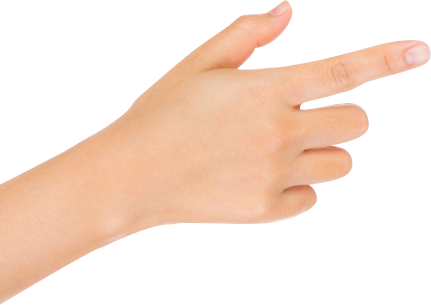
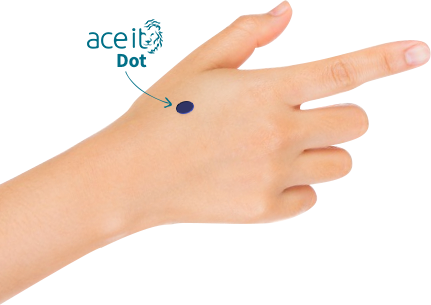
Hand and mp3 player

diff --git a/client/app/components/goaceit/components/goaceitHeader.scss b/client/app/components/goaceit/components/goaceitHeader.scss
@@ -55,7 +55,7 @@
     }
     .drawer-button-wrapper {
         @mixin drawer-icon($icon-file-name, $direction:left) {
-                cursor:pointer;
+            cursor:pointer;
             background-image: url($cdnImage + $icon-file-name);
             background-repeat: no-repeat;
             background-size: contain;
@@ -241,6 +241,39 @@
                     transform: rotateZ(-1deg);
                     z-index: 20;
 
+                    .hand {
+                        position: absolute;
+                        top: 10px;
+                        left: -12px;
+                        width: 250px;
+                        height: 177px;
+                        background: url($cdnImage + 'hand.png') center center;
+                        background-size: 250px 177px;
+
+                    }
+
+                    p {
+                        span:nth-child(1) {
+                            margin-left: 200px;
+                        }
+
+                        span:nth-child(2) {
+                            margin-left: 185px;
+                        }
+
+                        span:nth-child(3) {
+                            margin-left: 180px;
+                        }
+
+                        span:nth-child(4) {
+                            margin-left: 160px;
+                        }
+
+                        span:nth-child(5) {
+                            margin-left: 100px;
+                        }
+                    }
+
                     .stress-meter {
                         width: 530px;
                         height: 44px;
@@ -305,6 +338,11 @@
                                 }
                             }
 
+                            p {
+                                width: 350px;
+                                display: inline-block;
+                            }
+
                             .icon {
                                 width: 200px;
                                 height: 180px;
@@ -315,6 +353,47 @@
                                     margin-top: 25px;
                                     vertical-align: bottom;
                                     margin-left: -20px;
+                                }
+
+                                #play-audio {
+                                    width: 80px;
+                                    height: 80px;
+                                    background-color: #70c6d8;
+                                    -webkit-border-radius: 50%;
+                                    -moz-border-radius: 50%;
+                                    border-radius: 50%;
+                                    margin: 30px auto 0 auto;
+                                    cursor: pointer;
+                                    display: flex;
+                                    position: relative;
+
+                                    .controller {
+                                        width: 30px;
+                                        height: 30px;
+                                        display: block;
+                                        margin: 22px auto;
+                                        &.play {
+                                            background-image: url($cdnImage + 'ic-player-play.png');
+                                        }
+                                        &.pause {
+                                            background-image: url($cdnImage + 'ic-player-pause.png');
+                                        }
+                                    }
+
+                                    &:after {
+                                        content: ' ';
+                                        left: -50px;
+                                        bottom: -20px;
+                                        background-image: url($cdnImage + 'arrow-protips.svg');
+                                        background-size: contain;
+                                        background-repeat: no-repeat;
+                                        height: 30px;
+                                        width: 44px;
+                                        position: absolute;
+                                        -ms-transform: rotateZ(-45deg); /* IE 9 */
+                                        -webkit-transform: rotateZ(-45deg); /* Chrome, Safari, Opera */
+                                        transform: rotateZ(-45deg);
+                                    }
                                 }
 
                             }

diff --git a/client/app/components/goaceit/components/goaceitHeader.html b/client/app/components/goaceit/components/goaceitHeader.html
@@ -82,9 +82,14 @@
             <div class="biodot-drawer drawer" ng-class="{'open-drawer': $ctrl.openDrawers['biodot']}">
                 <img class="close" src="{{::$root.imageCdn}}close.png" ng-click="$ctrl.toggleDrawer('biodot')">
                 <h1>Aceit Dots</h1>
+                <div class="hand"></div>
                 <p>
-                    This ACEIT dot is based on the temperature in your hands. When you get stressed, the tiny blood vessels under the surface of your skin close down and the temperature drops. So when you are very stressed, your hands get cold and the ACEIT dot registers black.
-                    <strong>(Keep in mind that in cold weather or with air conditioning, the ACEIT dot will register black).</strong>
+                    <span>This ACEIT dot is based on the temperature in your</span>
+                    <span>hands. When you get stressed, the tiny blood vessels</span>
+                    <span>under the surface of your skin close down and the</span>
+                    <span>temperature drops. So when you are very stressed, your</span>
+                    <span>hands get cold and the ACEIT dot registers black.</span>
+                    <span><strong>(Keep in mind that in cold weather or with air conditioning, the ACEIT dot will register black).</strong></span>
                 </p>
                 <div class="stress-meter">
                     <div class="metric">Too Stressed</div>
@@ -111,11 +116,11 @@
 
                 <div class="tabs">
 
-                    <div class="tab" ng-class="{'inactive' : $ctrl.activeTabIndex}" ng-click="$ctrl.toggleTab()">
+                    <div class="tab" ng-class="{'inactive' : $ctrl.activeTabIndex}" ng-click="!$ctrl.activeTabIndex || $ctrl.toggleTab()">
                         <h1>Breathing Exercise</h1>
                     </div>
 
-                    <div class="tab" ng-class="{'inactive' : !$ctrl.activeTabIndex}" ng-click="$ctrl.toggleTab()">
+                    <div class="tab" ng-class="{'inactive' : !$ctrl.activeTabIndex}" ng-click="$ctrl.activeTabIndex || $ctrl.toggleTab()">
                         <h1>Guided Imagery</h1>
                     </div>
 
@@ -131,13 +136,18 @@
                         </ul>
 
                         <div class="icon">
-                            <img src="{{::$root.imageCdn}}repeat3times.png" alt="">
+                            <img src="{{::$root.imageCdn}}repeat4times.png" alt="">
                         </div>
                     </div>
 
                     <div class="container" ng-class="{'inactive' : !$ctrl.activeTabIndex}" id="guided">
-                        <p>Sometimes you can’t shut down your thoughts. Guided Imagery can help you de-clutter your busy mind and help you relax and feel comfortable.</p>
-                        <p>Lie down in a dark room and listen to this audio tape</p>
+                        <p>Sometimes you can’t shut down your thoughts. Guided Imagery can help you de-clutter your busy mind and help you relax and feel comfortable. <br />
+                            <strong>Lie down in a dark room and listen to this audio tape</strong></p>
+                        <div class="icon">
+                            <div id="play-audio">
+                                <div class="controller play"></div>
+                            </div>
+                        </div>
                     </div>
                 </div>
 
